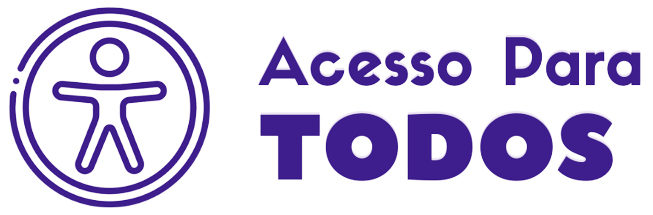
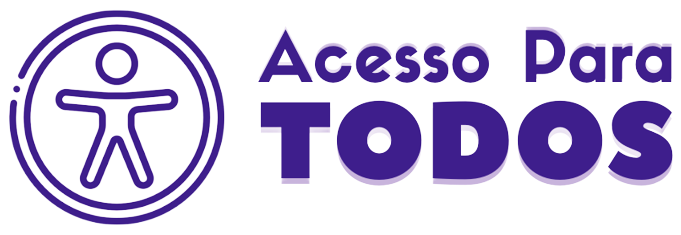
alterações

diff --git a/index.html b/index.html
@@ -2,14 +2,14 @@
 <html lang="pt-br">
   <head>
     <meta charset="UTF-8">
-    <title>Apeperia - aplicativos sob medida</title>
+    <title>Acessibilidade na web</title>
     <link href="https://fonts.googleapis.com/css?family=Montserrat:300,400,700|Open+Sans:300,400,700" rel="stylesheet">
 
     <link rel="shortcut icon" href="img/favicon/favicon.ico">
     <link rel="shortcut icon" href="img/favicon/favicon-16x16.png">
     <link rel="shortcut icon" href="img/favicon/favicon-32x32.png">
     <link rel="shortcut icon" href="img/favicon/android-chrome-192x192.png">  
-    <link rel="shortcut icon" href="img/favicon/site.webmanifest">
+    <link rel="shortcut icon" href="img/favicon/site.manifest">
         
     <link rel="stylesheet" href="css/reset.css">
     <link rel="stylesheet" href="css/tema-padrao.css">
@@ -30,15 +30,15 @@
     <a href="#conteudoPrincipal" class="pularNavegacao">Pular para conteúdo principal</a>
 
     <header class="cabecalho container">
-      <a href="" class="cabecalho-logo" title="Home Apeperia">
+      <a href="" class="cabecalho-logo" title="Acessibilidade na web">
         <img src="img/AcessoParaTodos.png" alt="" width="210" height="70">
       </a>
       <nav class="cabecalho-nav">
         <ul>
-          <li class="cabecalho-nav-item"><a href="#">Acessibilidade web</a></li>
+          <li class="cabecalho-nav-item"><a href="#">Acessibilidade </a></li>
           <li class="cabecalho-nav-item"><a href="#">Leis e Decretos</a></li>
           <li class="cabecalho-nav-item"><a href="#">Deficiência visual</a></li>
-          <li class="cabecalho-nav-item"><a href="#">Aplicando</a></li>
+          <li class="cabecalho-nav-item"><a href="#">Aplicabilidade</a></li>
           <li class="cabecalho-nav-item"><a href="#">Links úteis</a></li>
         </ul>  
       </nav>
@@ -47,10 +47,14 @@
     <main class="conteudo" role="main">
       <section class="secaoDestaque">
         <h1 class="secaoDestaque-titulo" id="conteudoPrincipal">
-          -
+          Acessibilidade na web
         </h1>
         <p class="secaoDestaque-texto">
-          A Apeperia é uma startup com um jeito inovador de comprar e montar aplicativos mobile e web para pequenas e médias empresas
+          <q>Para a maioria das pessoas, a tecnologia torna a vida mais fácil. Para uma pessoa com necessidades especiais, a
+          tecnologia torna as coisas possíveis</q> 
+        </p>
+        <p class="secaoDestaque-texto">
+          Jorge Fernandes e Francisco Godinho (2003)
         </p>
       </section>
 
@@ -58,77 +62,56 @@
         <div class="container">
           <img src="img/acessilidade.jpeg" class="secaoSobre-imgDestaque" alt>
           <h2 class="secaoSobre-titulo tituloPadrao">
-            SOBRE
+            Acessibilidade 
           </h2>
           <p class="secaoSobre-texto">
-            Criamos aplicativos personalizados de maneira diferente e para <b>todas as pessoas</b>!
-          </p>
-          <p class="secaoSobre-texto">
-            Preocupados com o modelo atual em que um aplicativo é criado entregue e a manutenção é vista como um custo extra para o cliente, decidimos criar um novo modelo de negócio, em que você assina nosso serviço, nós criamos o aplicativo e a manutenção já é inclusa no serviço. Dessa maneira você não se preocupa com atualização, é tudo por nossa conta.
-          </p>
-          <p class="secaoSobre-texto">
-            <b>
-              Contamos com uma equipe especializada e exclusiva para projetos incríveis!
-            </b>
+            Lorem Ipsum is simply dummy text of the printing and typesetting industry. Lorem Ipsum has been the industry's standard dummy text ever since the 1500s, when an unknown printer took a galley of type and scrambled it to make a type specimen book. It has survived not only five centuries, but also the leap into electronic typesetting, remaining essentially unchanged. It was popularised in the 1960s with the release of Letraset sheets containing Lorem Ipsum passages, and more recently with desktop publishing software like Aldus PageMaker including versions of Lorem Ipsum.
           </p>
         </div>
       </section> <!--fim .secaoSobre-->
 
       <section class="secaoDestaques">
         <div class="container">
-          <h2 class="secaoDestaques-titulo tituloPadrao">DESTAQUES</h2>
-
-          <a href="http://blog.apeperia.com.br/design/conheca-primeiras-etapas-criacao-logotipo-teste-teste" class="secaoDestaques-link" aria-labelledby="tituloDestaque1">
-            <figure class="secaoDestaques-destaque">
-              <img src="img/comecando-criar-logotipo.png" class="secaoDestaques-destaque-img" alt="Ferramentas de designer. Ilustração">
-              <figpcation class="secaoDestaques-destaque-titulo" id="tituloDestaque1">
-                Conheça as primeiras etapas na criação de um logotipo
-              </figpcation>
-            </figure>
-          </a>
-
-          <a href="http://blog.apeperia.com.br/design/dicas-como-fotografar-com-celular" class="secaoDestaques-link" aria-labelledby="tituloDestaque2">
-            <figure class="secaoDestaques-destaque">
-              <img src="img/dicas-fotografia.png" class="secaoDestaques-destaque-img" alt="Moça mostrando câmera para rapaz">
-              <figcaption class="secaoDestaques-destaque-titulo" id="tituloDestaque2">
-                Veja dicas de como fotografar usando seu celular
-              </figcaption>
-            </figure>
-          </a>
+          <h2 class="secaoDestaques-titulo tituloPadrao">Leis e Decretos</h2>
+          <p class="secaoSobre-texto">
+            Exemplo <abbr title="HyperText Markup Language">HTML</abbr> e CSS.
+            Lorem Ipsum is simply dummy text of the printing and typesetting industry. Lorem Ipsum has been the industry's standard dummy text ever since the 1500s, when an unknown printer took a galley of type and scrambled it to make a type specimen book. It has survived not only five centuries, but also the leap into electronic typesetting, remaining essentially unchanged. It was popularised in the 1960s with the release of Letraset sheets containing Lorem Ipsum passages, and more recently with desktop publishing software like Aldus PageMaker including versions of Lorem Ipsum.
+          </p>
+          <blockquote cite="http://www.planalto.gov.br/ccivil_03/_ato2007-2010/2009/decreto/d6949.htm">
+            Pessoas com deficiência são aquelas que têm impedimentos de longo prazo de natureza física, mental, intelectual ou sensorial, os quais, em interação com diversas barreiras, podem obstruir sua participação plena e efetiva na sociedade em igualdades de condições com as demais pessoas.
+          </blockquote>
         </div>
       </section> <!--fim .secaoDestaques-->
 
       <section class="secaoSobre clearfix">
         <div class="container">
-          <img src="img/acessilidade.jpeg" class="secaoSobre-imgDestaque" alt>
+          <!-- <img src="img/acessilidade.jpeg" class="secaoSobre-imgDestaque" alt> -->
           <h2 class="secaoSobre-titulo tituloPadrao">
-            SOBRE
+            Sobre deficiência visual
           </h2>
           <p class="secaoSobre-texto">
-            Criamos aplicativos personalizados de maneira diferente e para <b>todas as pessoas</b>!
+            Lorem Ipsum is simply dummy text of the printing and typesetting industry. Lorem Ipsum has been the industry's standard dummy text ever since the 1500s, when an unknown printer took a galley of type and scrambled it to make a type specimen book. It has survived not only five centuries, but also the leap into electronic typesetting, remaining essentially unchanged. It was popularised in the 1960s with the release of Letraset sheets containing Lorem Ipsum passages, and more recently with desktop publishing software like Aldus PageMaker including versions of Lorem Ipsum.
+          </p>
+          <img src="img/acessilidade.jpeg" class="secaoSobre-imgDestaque" alt>
+          <p class="secaoSobre-texto">
+            Diam volutpat commodo sed egestas egestas fringilla phasellus. Pharetra et ultrices neque ornare aenean. Non quam lacus suspendisse faucibus interdum posuere. Vel eros donec ac odio. Metus aliquam eleifend mi in nulla posuere. Ac auctor augue mauris augue. Fermentum dui faucibus in ornare quam viverra orci sagittis eu. Massa enim nec dui nunc. Amet facilisis magna etiam tempor orci eu lobortis elementum nibh. Accumsan in nisl nisi scelerisque eu ultrices. Quam id leo in vitae turpis massa sed elementum tempus. Pretium lectus quam id leo.
           </p>
           <p class="secaoSobre-texto">
-            Preocupados com o modelo atual em que um aplicativo é criado entregue e a manutenção é vista como um custo extra para o cliente, decidimos criar um novo modelo de negócio, em que você assina nosso serviço, nós criamos o aplicativo e a manutenção já é inclusa no serviço. Dessa maneira você não se preocupa com atualização, é tudo por nossa conta.
-          </p>
-          <p class="secaoSobre-texto">
-            <b>
-              Contamos com uma equipe especializada e exclusiva para projetos incríveis!
-            </b>
-          </p>
+            Ornare suspendisse sed nisi lacus sed viverra tellus. Eu consequat ac felis donec et odio pellentesque diam volutpat. Diam in arcu cursus euismod quis viverra nibh cras. Ultricies integer quis auctor elit sed. Tristique senectus et netus et malesuada fames ac turpis. Elementum tempus egestas sed sed risus. Cursus sit amet dictum sit amet justo donec. Fusce id velit ut tortor pretium viverra suspendisse potenti nullam. Amet massa vitae tortor condimentum lacinia quis vel eros donec. Nunc aliquet bibendum enim facilisis. Vitae nunc sed velit dignissim sodales ut eu sem integer. Eu tincidunt tortor aliquam nulla facilisi. Neque vitae tempus quam pellentesque nec nam aliquam sem et. In nisl nisi scelerisque eu. Sed felis eget velit aliquet sagittis. In fermentum et sollicitudin ac orci. Cras semper auctor neque vitae tempus quam pellentesque nec. Lacus viverra vitae congue eu consequat.
+          </p>          
         </div>
       </section> <!--fim .secaoSobre-->
-
     </main>
 
     <footer class="rodape">
       <div class="container">
-        <img src="img/AcessoParaTodos.png" class="rodape-logo" alt="Logotipo">
+        <img src="img/AcessoParaTodos.png" class="rodape-logo" alt="Logotipo" width="200">
         <nav class="rodape-nav">
           <ul>
-            <li class="rodape-nav-item"><a href="#" class="rodape-nav-link">Acessibilidade web</a></li>
+            <li class="rodape-nav-item"><a href="#" class="rodape-nav-link">Acessibilidade </a></li>
             <li class="rodape-nav-item"><a href="#" class="rodape-nav-link">Leis e Decretos</a></li>
             <li class="rodape-nav-item"><a href="#" class="rodape-nav-link">Deficiência visual</a></li>
-            <li class="rodape-nav-item"><a href="#" class="rodape-nav-link">Aplicando</a></li>
+            <li class="rodape-nav-item"><a href="#" class="rodape-nav-link">Aplicabilidade</a></li>
             <li class="rodape-nav-item"><a href="#" class="rodape-nav-link">Links úteis</a></li>
           </ul>  
         </nav>

diff --git a/css/secaoDestaque.css b/css/secaoDestaque.css
@@ -2,9 +2,9 @@
 .secaoDestaque {
   text-align: center;
   background-size: cover;
-  background-color: #00161c;
-  padding: 10em 2em 3em 2em;
-  color: #fff;
+  background-color: #F8F5FF;;
+  padding: 15em 2em 3em 2em;
+  color: #3e1d8c;
 }
 
 
@@ -12,7 +12,7 @@
   font-weight: bold;
   margin-bottom: 1em;
   font-family: 'Montserrat', serif;
-  font-size: 2em;
+  font-size: 30px;
   line-height: 1;
 }
 
@@ -21,7 +21,7 @@
   margin: 0 auto 2em auto;
   font-size: 1.25em;
   font-weight: normal;
-
+  font-family: 'Montserrat', serif;
 }
 
 .secaoDestaque-cta {
@@ -46,12 +46,8 @@
 
 @media (min-width: 830px) {
 
-  .secaoDestaque {
-    background-image: url(../img/bg-intro.jpg);
-  }
-
   .secaoDestaque-titulo {
-    font-size: 5vw
+    font-size: 30px;
   }
 
 }

diff --git a/css/rodape.css b/css/rodape.css
@@ -1,5 +1,5 @@
 .rodape {
-  background-color: #333;
+  background-color: #F8F5FF;;
   text-align: center;
 }
 
@@ -22,27 +22,16 @@
   display: block;
 }
 
-.rodape-social-link--facebook {
-  background-image: url(../img/facebook.png);
-}
-
-.rodape-social-link--twitter {
-  background-image: url(../img/twitter.png);
-}
-
-.rodape-social-link--instagram {
-  background-image: url(../img/instagram.png);
-}
-
 .rodape-nav-item {
   display: inline-block;
   margin: 0 8px;
 }
 
 .rodape-nav-link {
-  color: #fff;
+  color: #3e1d8c;
   text-decoration: none;
   line-height: 3;
+  font-weight: bold;
 }
 
 .rodape-nav-link:hover,
@@ -53,7 +42,7 @@
 @media (min-width: 830px) {
 
   .rodape-logo {
-    max-height: 50px;
+    max-width: 200px;
     display: block;
   }
 

diff --git a/css/cabecalho.css b/css/cabecalho.css
@@ -1,4 +1,3 @@
-
 .cabecalho {
   position: absolute;
   top: -2.5em;
@@ -6,7 +5,7 @@
   transform: translate(-50%);
   text-align: center;
   width: 100%;
-  border-bottom: 1px solid #103d4a;
+  border-bottom: 1px solid #3e1d8c;
   padding-bottom: .5em
 }
 
@@ -39,9 +38,9 @@
 
 .cabecalho-nav-item a {
   text-decoration: none;
-  color: #fff;
-  font-family: 'Open Sans', serif;
-
+  color: #3e1d8c;
+  font-family: 'Montserrat', serif;
+  font-weight: bold;
 }
 
 .cabecalho-nav-item a:hover,

diff --git a/css/secaoDestaques.css b/css/secaoDestaques.css
@@ -1,5 +1,5 @@
 .secaoDestaques {
-  background-color: #DCEDF5;
+  background-color: #F8F5FF;
   text-align: center;
 }
 

diff --git a/css/secaoSobre.css b/css/secaoSobre.css
@@ -15,6 +15,7 @@
 
 .secaoSobre-imgDestaque {
   display: none;
+  max-width: 500px;
 }
 
 
